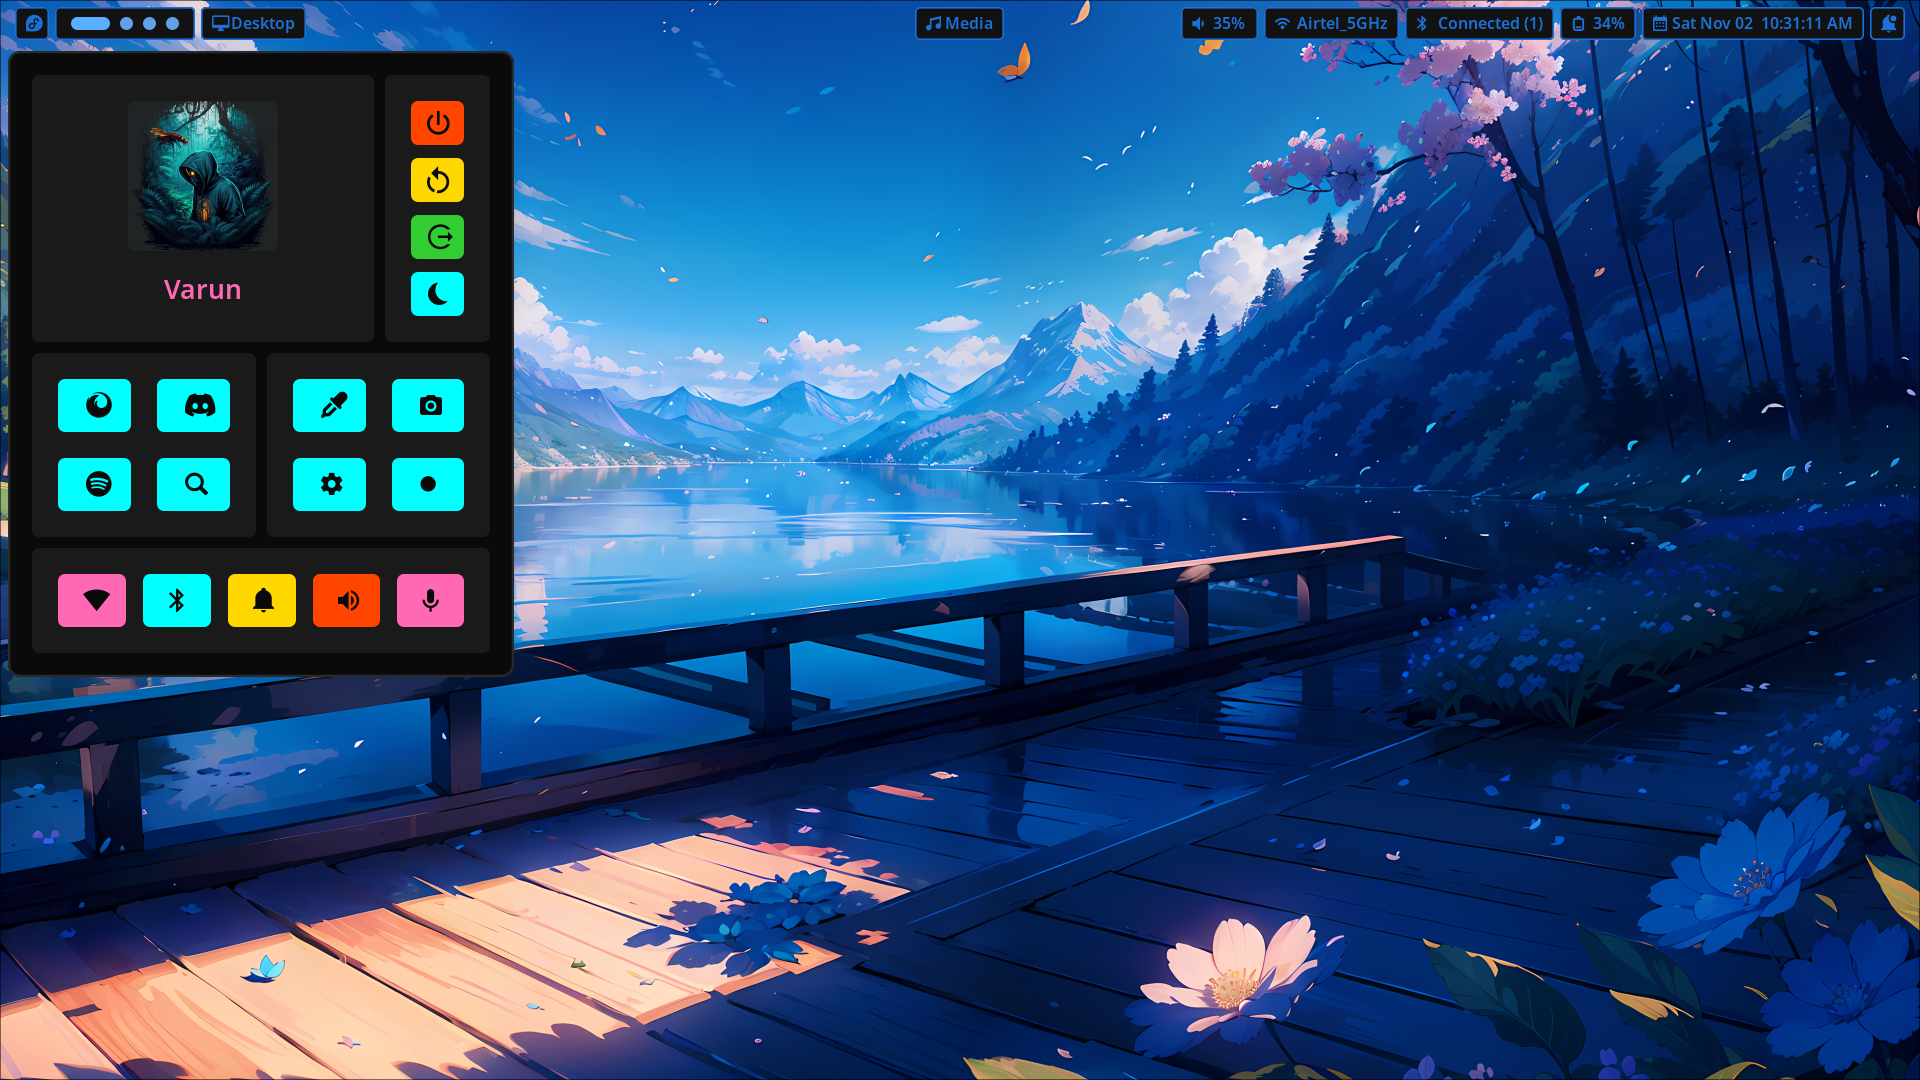
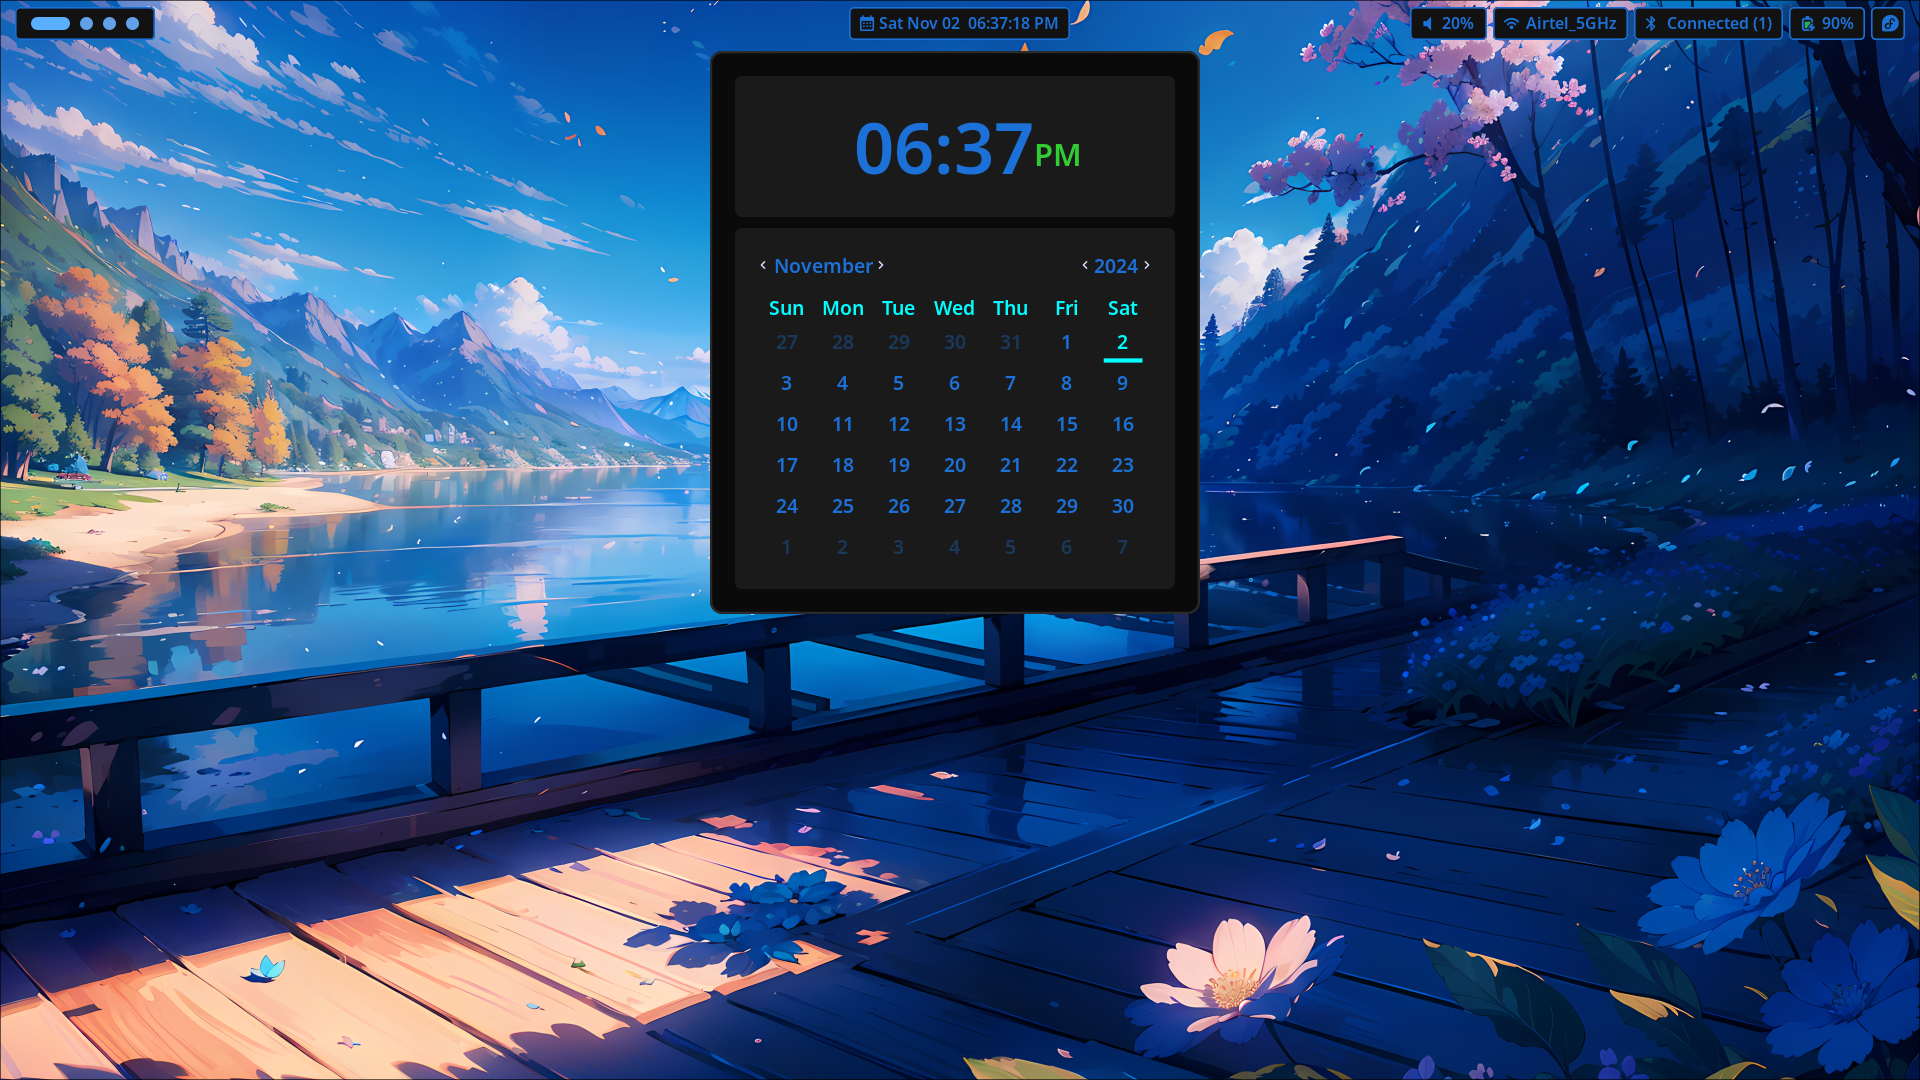
Updated hyprpanel theme & preview images.

Changed region(s): [[0.0, 0.0, 0.2812, 0.6417], [0.3438, 0.0, 1.0, 0.5806]]

diff --git a/README.md b/README.md
@@ -173,7 +173,6 @@ To install theme just export the theme in hyprpanel.
 ![Hyprpanel Preview](./src/hyprpanel4.png)
 ![Hyprpanel Preview](./src/hyprpanel5.png)
 ![Hyprpanel Preview](./src/hyprpanel6.png)
-![Hyprpanel Preview](./src/hyprpanel7.png)
 
 ## Endeavour OS i3 WM
 
